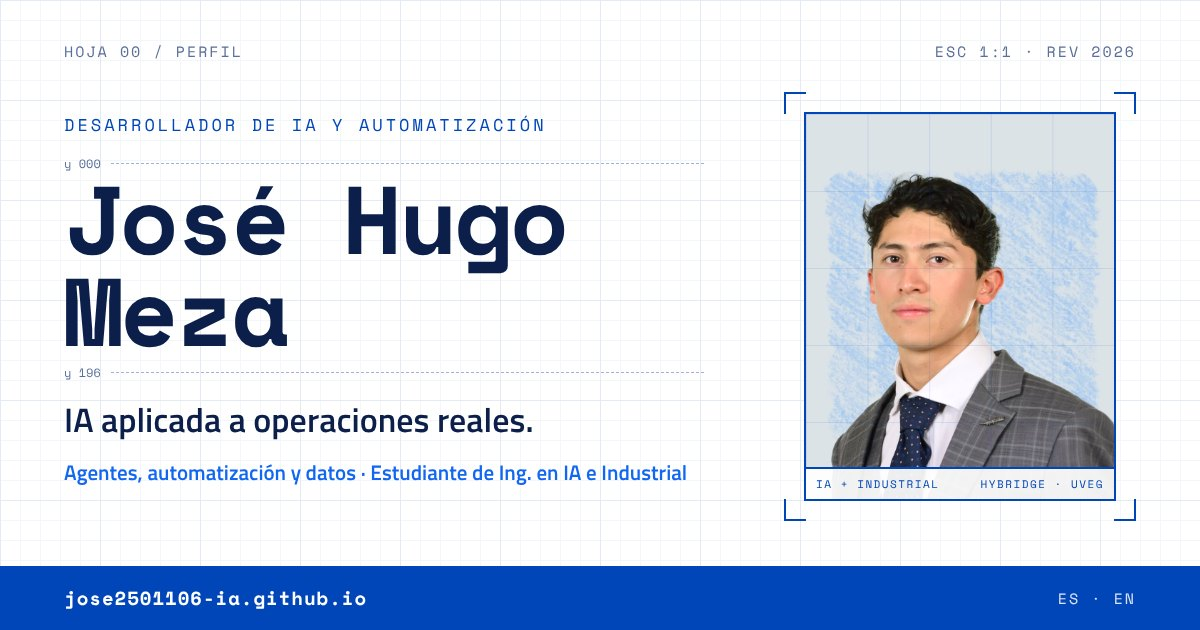
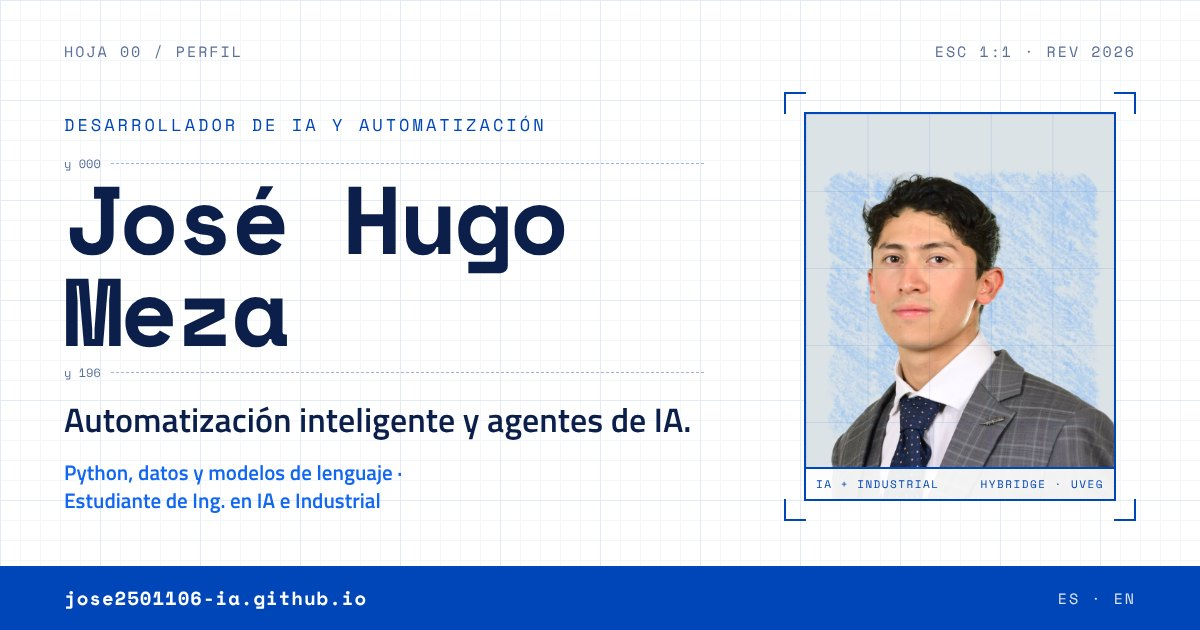
Titular «Automatización inteligente y agentes de IA»; la empresa queda sin identificar
- Titular nuevo en pestaña, vista previa (imágenes regeneradas), portada y cierre de Contacto.
- Bajada: «Python, datos y modelos de lenguaje · Estudiante de Ing. en IA e Industrial».
- La empresa aparece como «empresa de distribución»: fuera Central de Abasto, «mayorista» y «huevo»
  en historia, descripción, dato HOY, los 3 puestos, el proyecto Pipeline y la intro.
- Titular y bajada con líneas equilibradas; el «·» ya no abre renglón.

Claude-Session: https://claude.ai/code/session_01JVx4WVHgHNUwPfAfqkxhoB

Changed region(s): [[0.0308, 0.7238, 0.5858, 0.8143], [0.0617, 0.6333, 0.5858, 0.6937]]

diff --git a/en/index.html b/en/index.html
@@ -3,8 +3,8 @@
 <head>
 <meta charset="utf-8">
 <meta name="viewport" content="width=device-width, initial-scale=1">
-<title>José Hugo Meza · AI applied to real-world operations</title>
-<meta name="description" content="AI and automation developer. I automate operations for a real wholesale business in Mexico City while studying AI and Industrial Engineering.">
+<title>José Hugo Meza · Intelligent automation and AI agents</title>
+<meta name="description" content="AI and automation developer. I automate operations for a distribution company while studying AI and Industrial Engineering.">
 <meta name="author" content="José Hugo Meza Vázquez">
 <link rel="canonical" href="https://jose2501106-ia.github.io/en/">
 <link rel="alternate" hreflang="es" href="https://jose2501106-ia.github.io/">
@@ -13,28 +13,28 @@
 <meta name="theme-color" content="#0B1F4A">
 <meta property="og:type" content="profile">
 <meta property="og:site_name" content="José Hugo Meza">
-<meta property="og:title" content="José Hugo Meza · AI applied to real-world operations">
-<meta property="og:description" content="AI and automation developer. I automate operations for a real wholesale business in Mexico City while studying AI and Industrial Engineering.">
+<meta property="og:title" content="José Hugo Meza · Intelligent automation and AI agents">
+<meta property="og:description" content="AI and automation developer. I automate operations for a distribution company while studying AI and Industrial Engineering.">
 <meta property="og:url" content="https://jose2501106-ia.github.io/en/">
 <meta property="og:image" content="https://jose2501106-ia.github.io/assets/img/og-en.jpg">
 <meta property="og:image:width" content="1200">
 <meta property="og:image:height" content="630">
-<meta property="og:image:alt" content="José Hugo Meza · AI applied to real-world operations">
+<meta property="og:image:alt" content="José Hugo Meza · Intelligent automation and AI agents">
 <meta property="og:locale" content="en_US">
 <meta property="og:locale:alternate" content="es_MX">
 <meta property="profile:first_name" content="José Hugo">
 <meta property="profile:last_name" content="Meza">
 <meta name="twitter:card" content="summary_large_image">
-<meta name="twitter:title" content="José Hugo Meza · AI applied to real-world operations">
-<meta name="twitter:description" content="AI and automation developer. I automate operations for a real wholesale business in Mexico City while studying AI and Industrial Engineering.">
+<meta name="twitter:title" content="José Hugo Meza · Intelligent automation and AI agents">
+<meta name="twitter:description" content="AI and automation developer. I automate operations for a distribution company while studying AI and Industrial Engineering.">
 <meta name="twitter:image" content="https://jose2501106-ia.github.io/assets/img/og-en.jpg">
 <link rel="icon" href="../favicon.svg" type="image/svg+xml">
 <link rel="icon" href="../favicon-32.png" sizes="32x32" type="image/png">
 <link rel="apple-touch-icon" href="../apple-touch-icon.png">
 <link rel="preload" href="../assets/fuentes/space-mono-700.woff2" as="font" type="font/woff2" crossorigin>
 <link rel="preload" href="../assets/fuentes/titillium-web-400.woff2" as="font" type="font/woff2" crossorigin>
-<link rel="stylesheet" href="../assets/css/sitio.css?v=2826cf74">
-<script type="application/ld+json">{"@context": "https://schema.org", "@type": "Person", "name": "José Hugo Meza Vázquez", "alternateName": "José Hugo Meza", "url": "https://jose2501106-ia.github.io/", "image": "https://jose2501106-ia.github.io/assets/img/retrato-864.webp", "jobTitle": "AI and automation developer", "description": "AI and automation developer. I automate operations for a real wholesale business in Mexico City while studying AI and Industrial Engineering.", "email": "mailto:jose2501106@hybridge.education", "address": {"@type": "PostalAddress", "addressLocality": "Ciudad de México", "addressCountry": "MX"}, "sameAs": ["https://www.linkedin.com/in/josehugomeza-ai/", "https://github.com/jose2501106-IA"], "knowsLanguage": ["es", "en"]}</script>
+<link rel="stylesheet" href="../assets/css/sitio.css?v=71742bf3">
+<script type="application/ld+json">{"@context": "https://schema.org", "@type": "Person", "name": "José Hugo Meza Vázquez", "alternateName": "José Hugo Meza", "url": "https://jose2501106-ia.github.io/", "image": "https://jose2501106-ia.github.io/assets/img/retrato-864.webp", "jobTitle": "AI and automation developer", "description": "AI and automation developer. I automate operations for a distribution company while studying AI and Industrial Engineering.", "email": "mailto:jose2501106@hybridge.education", "address": {"@type": "PostalAddress", "addressLocality": "Ciudad de México", "addressCountry": "MX"}, "sameAs": ["https://www.linkedin.com/in/josehugomeza-ai/", "https://github.com/jose2501106-IA"], "knowsLanguage": ["es", "en"]}</script>
 </head>
 <body>
 <a class="saltar" href="#contenido">Skip to content</a>
@@ -72,17 +72,17 @@
         <div class="cota" aria-hidden="true"><span>y 196</span><i></i></div>
       </div>
       <div class="bloque-titulo">
-        <p class="subtitulo">AI applied to real-world operations.</p>
-        <p class="bajada">Agents, automation and data · AI &amp; Industrial Engineering student</p>
+        <p class="subtitulo">Intelligent automation and AI agents.</p>
+        <p class="bajada">Python, data and language models&nbsp;· AI &amp; Industrial Engineering student</p>
       </div>
-      <p class="historia">I joined a wholesale business at Mexico City&#39;s Central de Abasto market as an administrative assistant, and three months later I was running its warehouse. Today, as an independent developer, I build automation tools the business uses every day and I&#39;m developing its first AI solutions, while pursuing two engineering degrees: Artificial Intelligence and Industrial Engineering.</p>
+      <p class="historia">I joined a distribution company as an administrative assistant, and three months later I was running its warehouse. Today, as an independent developer, I support it with automation tools it uses every day and I&#39;m developing its first AI solutions, while pursuing two engineering degrees: Artificial Intelligence and Industrial Engineering.</p>
       <div class="botones">
         <a class="btn btn--pri" href="#proyectos">See projects</a>
         <a class="btn btn--sec" href="mailto:jose2501106@hybridge.education">Email me</a>
       </div>
       <dl class="ficha">
         <div><dt>STUDYING</dt><dd>AI Engineering (Hybridge) · Industrial Engineering (UVEG)</dd></div>
-        <div><dt>NOW</dt><dd>Automation for a wholesale business in Mexico City</dd></div>
+        <div><dt>NOW</dt><dd>Automation for a distribution company</dd></div>
         <div><dt>BASED IN</dt><dd>Mexico City</dd></div>
       </dl>
     </div>
@@ -197,7 +197,7 @@
       <div class="proy__cab"><span>FIG. 03 — AUTOMATION · DATA</span><span>IN PRODUCTION</span></div>
       <div class="proy__cuerpo">
         <h3>Audit pipeline</h3>
-        <p class="proy__sub">Wholesale business · Central de Abasto, Mexico City</p>
+        <p class="proy__sub">Distribution company · Mexico City</p>
         <p class="proy__desc">Automates the warehouse&#39;s daily operations audit with Python and Apps Script. Now on version 7, running in production every day.</p>
         <div class="proy__demuestra"><span>SHOWS:</span><strong>Production software · iterated through 7 versions</strong></div>
         <div class="proy__cifras">
@@ -244,8 +244,8 @@
       </div>
       <div class="exp__cuerpo">
         <h3>Independent AI &amp; automation developer</h3>
-        <p class="exp__donde">Wholesale business · Central de Abasto · Sep 2026 – present</p>
-        <ul class="exp__puntos"><li>I automate the business&#39;s daily operations and I&#39;m developing its first AI solutions.</li><li>I maintain the daily audit pipeline in Python and Apps Script (v7, in production).</li><li>I build internal tools for orders and inventory control.</li></ul>
+        <p class="exp__donde">Independent, for a distribution company · Sep 2026 – present</p>
+        <ul class="exp__puntos"><li>I automate the company&#39;s daily operations and I&#39;m developing its first AI solutions.</li><li>I maintain the daily audit pipeline in Python and Apps Script (v7, in production).</li><li>I build internal tools for orders and inventory control.</li></ul>
       </div>
     </li>
     <li class="exp__fila">
@@ -255,8 +255,8 @@
       </div>
       <div class="exp__cuerpo">
         <h3>Warehouse manager</h3>
-        <p class="exp__donde">Same business · Central de Abasto</p>
-        <ul class="exp__puntos"><li>Moved up from administrative assistant to warehouse manager in three months.</li><li>I ran day-to-day operations at an egg warehouse.</li></ul>
+        <p class="exp__donde">Same company</p>
+        <ul class="exp__puntos"><li>Moved up from administrative assistant to warehouse manager in three months.</li><li>I ran the warehouse&#39;s day-to-day operations.</li></ul>
       </div>
     </li>
     <li class="exp__fila">
@@ -266,7 +266,7 @@
       </div>
       <div class="exp__cuerpo">
         <h3>Administrative assistant</h3>
-        <p class="exp__donde">Wholesale business · Central de Abasto</p>
+        <p class="exp__donde">Same company</p>
         <ul class="exp__puntos"><li>I kept the administrative records and reports for daily operations.</li><li>I coordinated with suppliers and internal teams.</li></ul>
       </div>
     </li>
@@ -289,7 +289,7 @@
   <div class="cab"><div class="cab__hoja">SHEET 05 / EDUCATION</div><h2 id="t-perfil">Education &amp; tools</h2><div class="cab__regla"></div></div>
   <div class="perfil">
     <div class="perfil__izq">
-      <p class="perfil__intro">I&#39;m pursuing two engineering degrees at the same time: Artificial Intelligence at Hybridge Education and Industrial Engineering at UVEG. Alongside my studies, I automate operations for a wholesale business at Mexico City&#39;s Central de Abasto market, where I turn what I learn into systems used every day.</p>
+      <p class="perfil__intro">I&#39;m pursuing two engineering degrees at the same time: Artificial Intelligence at Hybridge Education and Industrial Engineering at UVEG. Alongside my studies, I automate operations for a distribution company, where I turn what I learn into systems used every day.</p>
       <div class="blandas"><div class="blandas__et">SOFT SKILLS</div><p>Communication: two national public-speaking competitions and Youth Parliament. Leadership: Aspire Leaders Program. Fast-paced operations: daily decisions in a business with customers and suppliers.</p></div>
       <div class="herr">
         <div class="herr__et">TOOLS</div>
@@ -359,7 +359,7 @@
   <div class="cab__hoja">SHEET 06 / CONTACT</div>
   <div class="contacto">
     <div class="contacto__izq">
-      <h2 id="t-contacto">Let&#39;s talk about AI applied to operations</h2>
+      <h2 id="t-contacto">Let&#39;s talk about intelligent automation</h2>
       <p>Reach me by email or on LinkedIn.</p>
       <div class="botones">
         <a class="btn btn--pri" href="mailto:jose2501106@hybridge.education">Send an email →</a>
@@ -381,6 +381,6 @@
   <div class="pie__in"><div class="pie__frase">“Industrial engineer in training, developer out of curiosity, operator out of necessity.”</div><div>© 2026 José Hugo Meza Vázquez</div></div>
 </footer>
 </div>
-<script src="../assets/js/sitio.js?v=2826cf74" defer></script>
+<script src="../assets/js/sitio.js?v=71742bf3" defer></script>
 </body>
 </html>

diff --git a/index.html b/index.html
@@ -3,8 +3,8 @@
 <head>
 <meta charset="utf-8">
 <meta name="viewport" content="width=device-width, initial-scale=1">
-<title>José Hugo Meza · IA aplicada a operaciones reales</title>
-<meta name="description" content="Desarrollador de IA y automatización. Automatizo la operación de un negocio real de la Central de Abasto y estudio Ing. en IA e Industrial.">
+<title>José Hugo Meza · Automatización inteligente y agentes de IA</title>
+<meta name="description" content="Desarrollador de IA y automatización. Automatizo la operación de una empresa de distribución y estudio Ing. en IA e Industrial.">
 <meta name="author" content="José Hugo Meza Vázquez">
 <link rel="canonical" href="https://jose2501106-ia.github.io/">
 <link rel="alternate" hreflang="es" href="https://jose2501106-ia.github.io/">
@@ -13,28 +13,28 @@
 <meta name="theme-color" content="#0B1F4A">
 <meta property="og:type" content="profile">
 <meta property="og:site_name" content="José Hugo Meza">
-<meta property="og:title" content="José Hugo Meza · IA aplicada a operaciones reales">
-<meta property="og:description" content="Desarrollador de IA y automatización. Automatizo la operación de un negocio real de la Central de Abasto y estudio Ing. en IA e Industrial.">
+<meta property="og:title" content="José Hugo Meza · Automatización inteligente y agentes de IA">
+<meta property="og:description" content="Desarrollador de IA y automatización. Automatizo la operación de una empresa de distribución y estudio Ing. en IA e Industrial.">
 <meta property="og:url" content="https://jose2501106-ia.github.io/">
 <meta property="og:image" content="https://jose2501106-ia.github.io/assets/img/og-es.jpg">
 <meta property="og:image:width" content="1200">
 <meta property="og:image:height" content="630">
-<meta property="og:image:alt" content="José Hugo Meza · IA aplicada a operaciones reales">
+<meta property="og:image:alt" content="José Hugo Meza · Automatización inteligente y agentes de IA">
 <meta property="og:locale" content="es_MX">
 <meta property="og:locale:alternate" content="en_US">
 <meta property="profile:first_name" content="José Hugo">
 <meta property="profile:last_name" content="Meza">
 <meta name="twitter:card" content="summary_large_image">
-<meta name="twitter:title" content="José Hugo Meza · IA aplicada a operaciones reales">
-<meta name="twitter:description" content="Desarrollador de IA y automatización. Automatizo la operación de un negocio real de la Central de Abasto y estudio Ing. en IA e Industrial.">
+<meta name="twitter:title" content="José Hugo Meza · Automatización inteligente y agentes de IA">
+<meta name="twitter:description" content="Desarrollador de IA y automatización. Automatizo la operación de una empresa de distribución y estudio Ing. en IA e Industrial.">
 <meta name="twitter:image" content="https://jose2501106-ia.github.io/assets/img/og-es.jpg">
 <link rel="icon" href="favicon.svg" type="image/svg+xml">
 <link rel="icon" href="favicon-32.png" sizes="32x32" type="image/png">
 <link rel="apple-touch-icon" href="apple-touch-icon.png">
 <link rel="preload" href="assets/fuentes/space-mono-700.woff2" as="font" type="font/woff2" crossorigin>
 <link rel="preload" href="assets/fuentes/titillium-web-400.woff2" as="font" type="font/woff2" crossorigin>
-<link rel="stylesheet" href="assets/css/sitio.css?v=2826cf74">
-<script type="application/ld+json">{"@context": "https://schema.org", "@type": "Person", "name": "José Hugo Meza Vázquez", "alternateName": "José Hugo Meza", "url": "https://jose2501106-ia.github.io/", "image": "https://jose2501106-ia.github.io/assets/img/retrato-864.webp", "jobTitle": "Desarrollador de IA y automatización", "description": "Desarrollador de IA y automatización. Automatizo la operación de un negocio real de la Central de Abasto y estudio Ing. en IA e Industrial.", "email": "mailto:jose2501106@hybridge.education", "address": {"@type": "PostalAddress", "addressLocality": "Ciudad de México", "addressCountry": "MX"}, "sameAs": ["https://www.linkedin.com/in/josehugomeza-ai/", "https://github.com/jose2501106-IA"], "knowsLanguage": ["es", "en"]}</script>
+<link rel="stylesheet" href="assets/css/sitio.css?v=71742bf3">
+<script type="application/ld+json">{"@context": "https://schema.org", "@type": "Person", "name": "José Hugo Meza Vázquez", "alternateName": "José Hugo Meza", "url": "https://jose2501106-ia.github.io/", "image": "https://jose2501106-ia.github.io/assets/img/retrato-864.webp", "jobTitle": "Desarrollador de IA y automatización", "description": "Desarrollador de IA y automatización. Automatizo la operación de una empresa de distribución y estudio Ing. en IA e Industrial.", "email": "mailto:jose2501106@hybridge.education", "address": {"@type": "PostalAddress", "addressLocality": "Ciudad de México", "addressCountry": "MX"}, "sameAs": ["https://www.linkedin.com/in/josehugomeza-ai/", "https://github.com/jose2501106-IA"], "knowsLanguage": ["es", "en"]}</script>
 </head>
 <body>
 <a class="saltar" href="#contenido">Saltar al contenido</a>
@@ -72,17 +72,17 @@
         <div class="cota" aria-hidden="true"><span>y 196</span><i></i></div>
       </div>
       <div class="bloque-titulo">
-        <p class="subtitulo">IA aplicada a operaciones reales.</p>
-        <p class="bajada">Agentes, automatización y datos · Estudiante de Ing. en IA e Industrial</p>
+        <p class="subtitulo">Automatización inteligente y agentes de IA.</p>
+        <p class="bajada">Python, datos y modelos de lenguaje&nbsp;· Estudiante de Ing. en IA e Industrial</p>
       </div>
-      <p class="historia">Entré a un negocio mayorista de la Central de Abasto como auxiliar administrativo y a los tres meses quedé al frente de su bodega. Hoy, como independiente, le construyo automatizaciones que se usan todos los días y desarrollo sus primeras soluciones de IA, mientras estudio dos ingenierías: Inteligencia Artificial e Industrial.</p>
+      <p class="historia">Entré a una empresa de distribución como auxiliar administrativo y a los tres meses quedé al frente de su bodega. Hoy, como desarrollador independiente, la apoyo con automatizaciones que se usan todos los días y desarrollo sus primeras soluciones de IA, mientras estudio dos ingenierías: Inteligencia Artificial e Industrial.</p>
       <div class="botones">
         <a class="btn btn--pri" href="#proyectos">Ver proyectos</a>
         <a class="btn btn--sec" href="mailto:jose2501106@hybridge.education">Escríbeme</a>
       </div>
       <dl class="ficha">
         <div><dt>ESTUDIO</dt><dd>Ing. en IA (Hybridge) · Ing. Industrial (UVEG)</dd></div>
-        <div><dt>HOY</dt><dd>Automatización para un negocio de la Central de Abasto</dd></div>
+        <div><dt>HOY</dt><dd>Automatización para una empresa de distribución</dd></div>
         <div><dt>UBICACIÓN</dt><dd>Ciudad de México</dd></div>
       </dl>
     </div>
@@ -197,7 +197,7 @@
       <div class="proy__cab"><span>FIG. 03 — AUTOMATIZACIÓN · DATOS</span><span>EN PRODUCCIÓN</span></div>
       <div class="proy__cuerpo">
         <h3>Pipeline de auditoría</h3>
-        <p class="proy__sub">Negocio mayorista · Central de Abasto, CDMX</p>
+        <p class="proy__sub">Empresa de distribución · CDMX</p>
         <p class="proy__desc">Automatiza la auditoría diaria de la operación del almacén con Python y Apps Script. Va en su versión 7 y corre en producción todos los días.</p>
         <div class="proy__demuestra"><span>DEMUESTRA:</span><strong>Software en producción · iteración continua hasta la v7</strong></div>
         <div class="proy__cifras">
@@ -244,8 +244,8 @@
       </div>
       <div class="exp__cuerpo">
         <h3>Desarrollador independiente de IA y automatización</h3>
-        <p class="exp__donde">Negocio mayorista · Central de Abasto · sep 2026 – actual</p>
-        <ul class="exp__puntos"><li>Automatizo la operación diaria del negocio y desarrollo sus primeras soluciones de IA.</li><li>Mantengo el pipeline de auditoría diaria en Python y Apps Script (v7, en producción).</li><li>Desarrollo herramientas internas para pedidos y control de bodega.</li></ul>
+        <p class="exp__donde">Independiente para una empresa de distribución · sep 2026 – actual</p>
+        <ul class="exp__puntos"><li>Automatizo la operación diaria de la empresa y desarrollo sus primeras soluciones de IA.</li><li>Mantengo el pipeline de auditoría diaria en Python y Apps Script (v7, en producción).</li><li>Desarrollo herramientas internas para pedidos y control de bodega.</li></ul>
       </div>
     </li>
     <li class="exp__fila">
@@ -255,8 +255,8 @@
       </div>
       <div class="exp__cuerpo">
         <h3>Encargado de bodega</h3>
-        <p class="exp__donde">Mismo negocio · Central de Abasto</p>
-        <ul class="exp__puntos"><li>Pasé de auxiliar administrativo a encargado de la bodega en tres meses.</li><li>Operé el día a día de un almacén de huevo.</li></ul>
+        <p class="exp__donde">Misma empresa</p>
+        <ul class="exp__puntos"><li>Pasé de auxiliar administrativo a encargado de la bodega en tres meses.</li><li>Operé el día a día de la bodega.</li></ul>
       </div>
     </li>
     <li class="exp__fila">
@@ -266,7 +266,7 @@
       </div>
       <div class="exp__cuerpo">
         <h3>Auxiliar administrativo</h3>
-        <p class="exp__donde">Negocio mayorista · Central de Abasto</p>
+        <p class="exp__donde">Misma empresa</p>
         <ul class="exp__puntos"><li>Llevé los registros y reportes administrativos de la operación diaria.</li><li>Coordiné con proveedores y áreas internas.</li></ul>
       </div>
     </li>
@@ -289,7 +289,7 @@
   <div class="cab"><div class="cab__hoja">HOJA 05 / FORMACIÓN</div><h2 id="t-perfil">Formación y herramientas</h2><div class="cab__regla"></div></div>
   <div class="perfil">
     <div class="perfil__izq">
-      <p class="perfil__intro">Estudio dos ingenierías al mismo tiempo: Inteligencia Artificial en Hybridge Education e Industrial en la UVEG. En paralelo automatizo la operación de un negocio de la Central de Abasto, donde convierto lo que aprendo en sistemas que se usan todos los días.</p>
+      <p class="perfil__intro">Estudio dos ingenierías al mismo tiempo: Inteligencia Artificial en Hybridge Education e Industrial en la UVEG. En paralelo automatizo la operación de una empresa de distribución, donde convierto lo que aprendo en sistemas que se usan todos los días.</p>
       <div class="blandas"><div class="blandas__et">HABILIDADES BLANDAS</div><p>Comunicación: dos competencias nacionales de oratoria y Parlamento Juvenil. Liderazgo: Aspire Leaders Program. Ritmo de operación real: decisiones diarias en un negocio con clientes y proveedores.</p></div>
       <div class="herr">
         <div class="herr__et">HERRAMIENTAS</div>
@@ -359,7 +359,7 @@
   <div class="cab__hoja">HOJA 06 / CONTACTO</div>
   <div class="contacto">
     <div class="contacto__izq">
-      <h2 id="t-contacto">¿Hablamos de IA aplicada a operaciones?</h2>
+      <h2 id="t-contacto">¿Hablamos de automatización inteligente?</h2>
       <p>Escríbeme por correo o por LinkedIn.</p>
       <div class="botones">
         <a class="btn btn--pri" href="mailto:jose2501106@hybridge.education">Escribir correo →</a>
@@ -381,6 +381,6 @@
   <div class="pie__in"><div class="pie__frase">“Ingeniero industrial en formación, developer por curiosidad, operador por necesidad.”</div><div>© 2026 José Hugo Meza Vázquez</div></div>
 </footer>
 </div>
-<script src="assets/js/sitio.js?v=2826cf74" defer></script>
+<script src="assets/js/sitio.js?v=71742bf3" defer></script>
 </body>
 </html>

diff --git a/assets/css/sitio.css b/assets/css/sitio.css
@@ -85,8 +85,8 @@ section[id], article[id] { scroll-margin-top: 72px; }
 .cota { display: flex; align-items: center; gap: 10px; font: 10px var(--mono); color: var(--gris); }
 .cota i { flex: 1 1 0; border-top: 1px dashed var(--punteada); }
 .nombre { font: 700 clamp(44px, 7vw, 92px)/.98 var(--mono); letter-spacing: -2px; color: var(--tinta); }
-.subtitulo { font-size: clamp(20px, 2.2vw, 26px); line-height: 1.35; font-weight: 600; color: var(--tinta); max-width: 560px; text-wrap: pretty; }
-.bajada { font-size: 16px; line-height: 1.45; font-weight: 600; color: var(--azul-vivo); max-width: 560px; text-wrap: pretty; }
+.subtitulo { font-size: clamp(20px, 2.2vw, 26px); line-height: 1.35; font-weight: 600; color: var(--tinta); max-width: 560px; text-wrap: balance; }
+.bajada { font-size: 16px; line-height: 1.45; font-weight: 600; color: var(--azul-vivo); max-width: 560px; text-wrap: balance; }
 .historia { font-size: 17px; line-height: 1.6; color: var(--gris-texto); max-width: 560px; text-wrap: pretty; }
 .botones { display: flex; gap: 12px; flex-wrap: wrap; }
 .btn { font: 700 13px var(--mono); letter-spacing: 1px; padding: 14px 20px; transition: background-color .15s, color .15s; }
